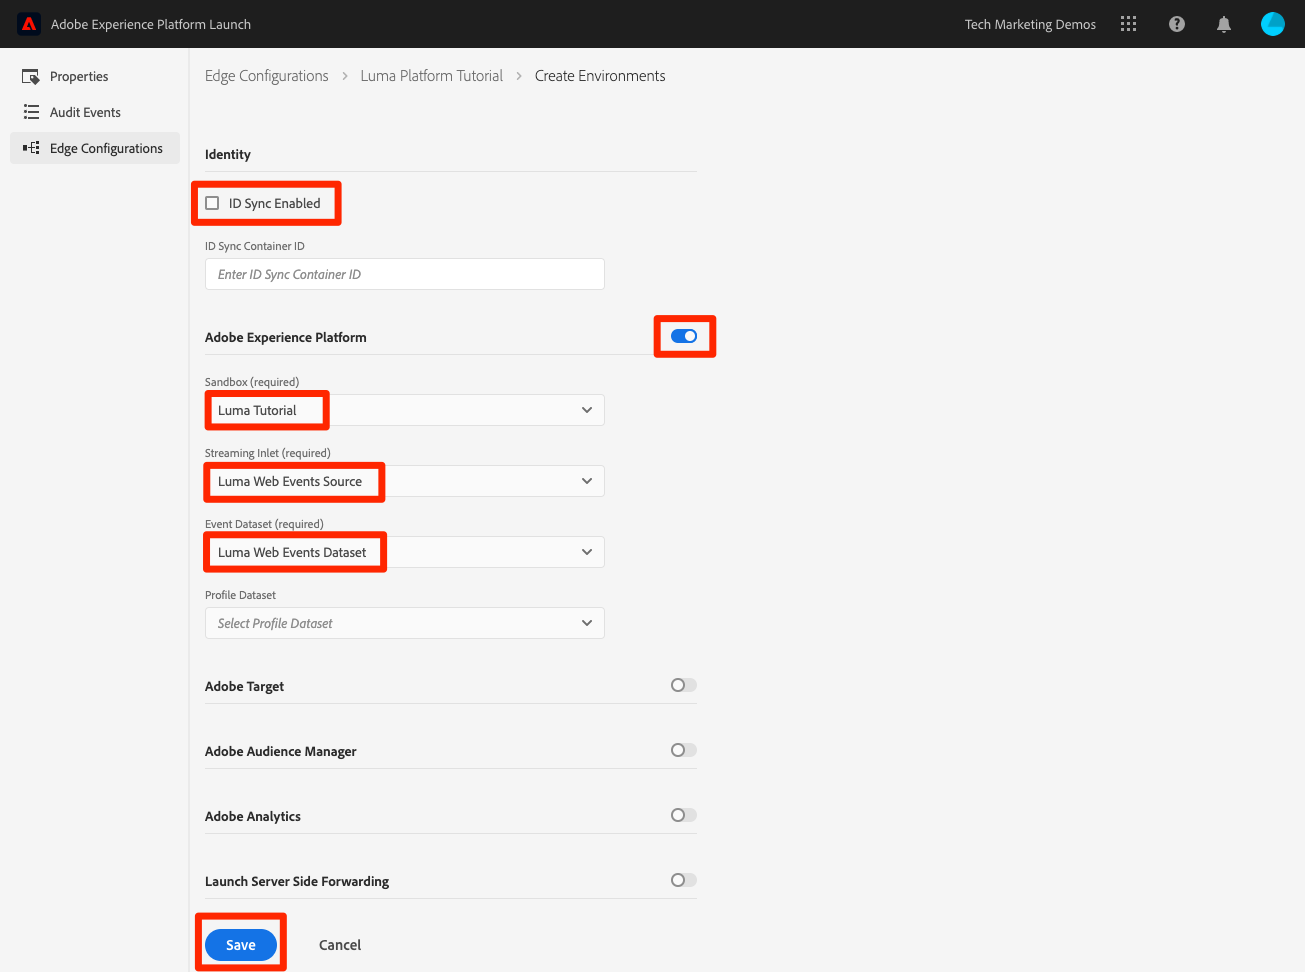
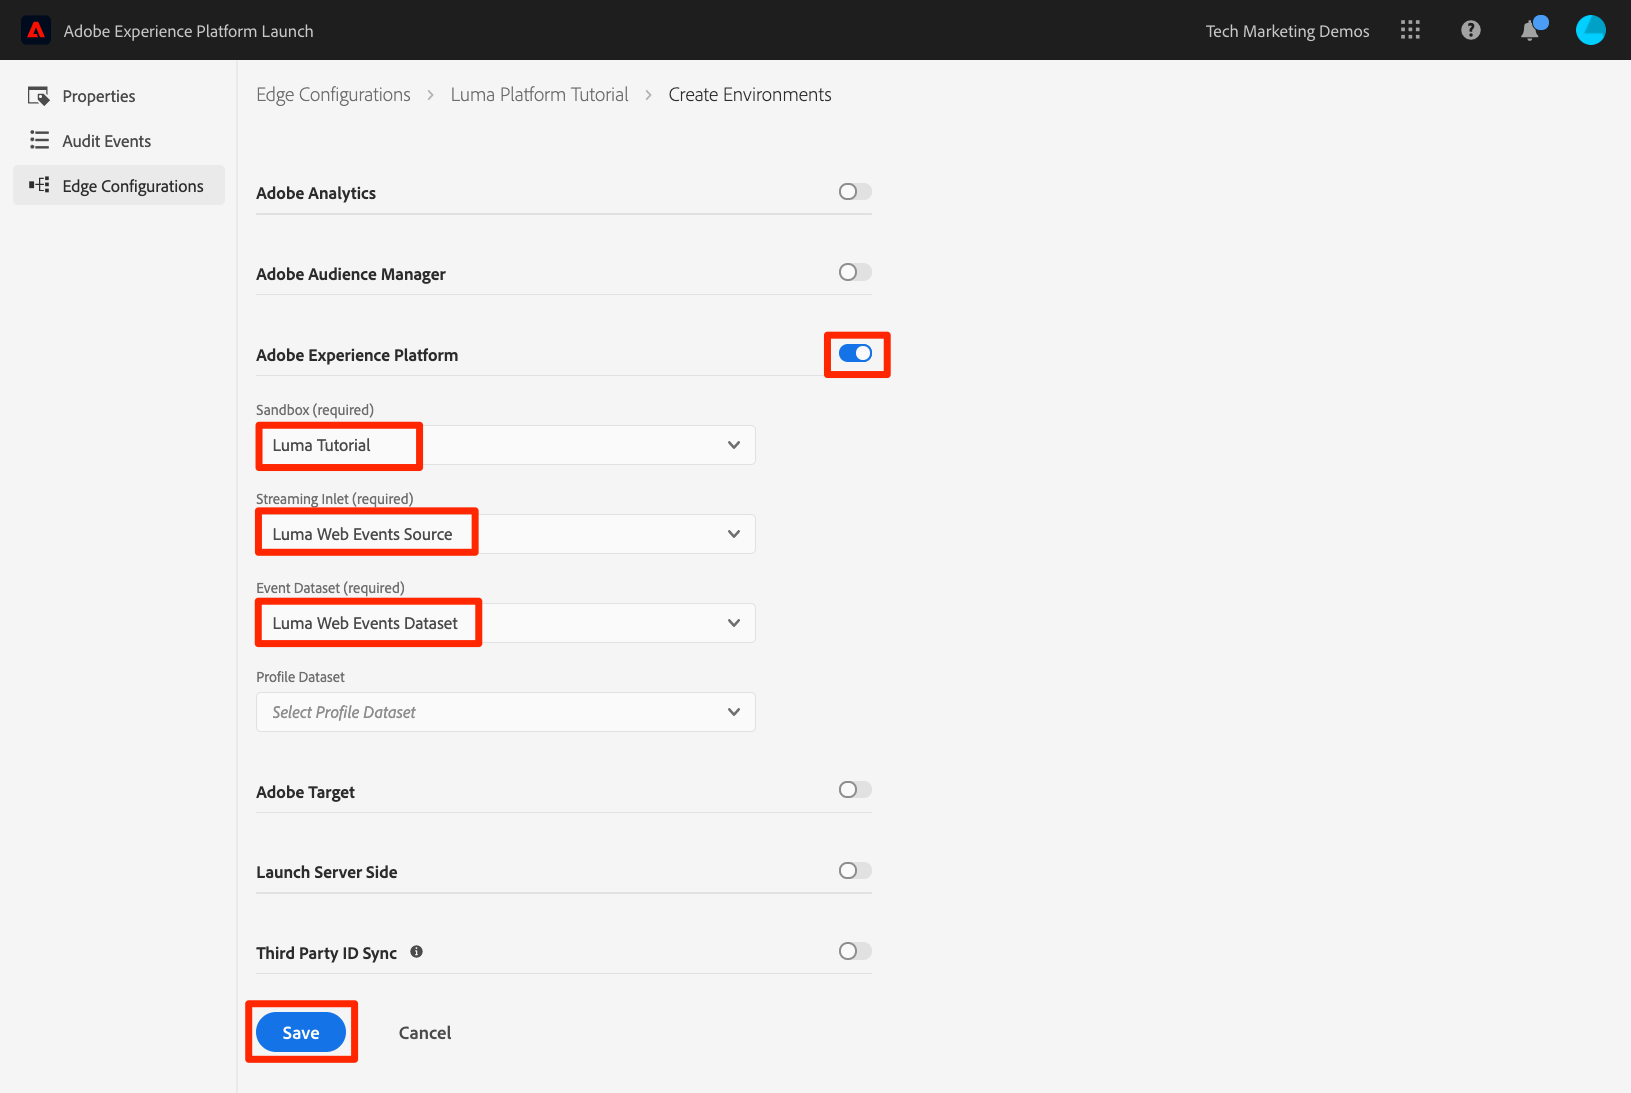
updates to loyalty schema and edge configuration screenshots. add warning for web sdk 2.2 namespace dropdown

diff --git a/help/tutorial-data-architect-and-engineer/ingest-streaming-data.md b/help/tutorial-data-architect-and-engineer/ingest-streaming-data.md
@@ -89,14 +89,13 @@ To create your [!UICONTROL Edge Configuration]:
 
 On the next screen you create the environment of the config. Here is where you specify where you want to send data. To send data to Experience Platform only, do the following:
 
-1. Uncheck the **[!UICONTROL ID Sync Enabled]** box. This field enables syncing with third parties, which is useful for Audience Manager, Ad Cloud, Real-time Customer Data Platform, but is not needed in our Platform-only implementation
 1. Toggle on **[!UICONTROL Adobe Experience Platform]** which will expose additional fields
 1. For **[!UICONTROL Sandbox]**, select `Luma Tutorial`
 1. For **[!UICONTROL Streaming Inlet]**, select `Luma Web Events Source`
 1. For **[!UICONTROL Event Dataset]**, select `Luma Web Events Dataset`
 1. If you use other Adobe applications, feel free to explore the other sections to see which information is required in the Edge Configuration of these other solutions. Remember, Web SDK was developed not only to stream data into Experience Platform, but also to replace all previous JavaScript libraries used by other Adobe applications. The Edge Configuration is used to specify the account details of each application to which you want to send the data.
 1. Click the **[!UICONTROL Save]** button to save your configuration
-    ![Name the Edge Configuration and save](assets/websdk-edgeConfig-addEnvironment.png)
+    ![Configure the Edge Configuration and save](assets/websdk-edgeConfig-addEnvironment.png)
 
 Once the Edge Configuration has saved, on the resulting screen you will notice that three environments have been created for Development, Staging, and Production and that additional Development environments can be added:
     ![Each Edge Configuration can have multiple environments](assets/websdk-edgeConfig-environments.png)
@@ -390,6 +389,11 @@ Now that we have captured the CRM Id value, we need to associate it with a speci
 1. As the **[!UICONTROL Extension]**, select **[!UICONTROL AEP Web SDK]**
 1. As the **[!UICONTROL Data Element Type]**, select **[!UICONTROL Identity Map]**
 1. As the Namespace, enter `lumaCRMId`, which is the [!UICONTROL Identity Symbol] we created in an earlier lesson
+
+   >[!WARNING]
+   >
+   >The AEP Web SDK extension version 2.2 allows you to select Namepsace from a pre-populated dropdown using the actual values in your Platform account. Unfortunately, this feature is not yet "sandbox aware" and thus the `lumaCRMId` value may not appear in the dropdown. This may prevent you from completing this exercise. We will post a workaround once confirmed.
+
 1. As the **[!UICONTROL ID]**, click the icon to open the data element selection modal and choose your `CRM Id` data element
 1. As the **[!UICONTROL Authenticated State]**, select **[!UICONTROL Authenticated]**
 1. Leave **[!UICONTROL Primary]** _unchecked_. Since the CRM Id is not present for most visitors to the Luma website, you definitely _do not want to override the ECID as the primary identifier_. It would be a very rare use case to use anything other than the ECID as the primary identifier. Usually I don't mention the default settings in these instructions, but I am calling this one out to help you avoid headaches later on in your own implementation.

diff --git a/help/platform/sources/sources-tutorials.md b/help/platform/sources/sources-tutorials.md
@@ -1,7 +1,7 @@
 ---
 keywords: Experience Platform;home;popular topics;source connectors;source connector;sources;data sources;data source;data source connection
-solution: Experience Platform
 title: Sources tutorials
+feature: data ingestion
 topic: tutorial
 type: Tutorial
 description: Ingest data from a variety of sources and structure, label, and enhance incoming data using Platform services. 
